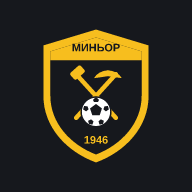
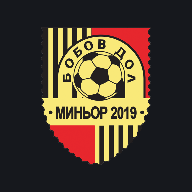
Замяна с официалното лого на „Миньор 2019" Бобов дол
- Добавено реалното лого (public/logo.png); Crest рендира него навсякъде.
- Прегенерирани PWA икони (192/512), OG изображение и favicon от логото.
- Премахнати временните SVG герб и favicon.

Claude-Session: https://claude.ai/code/session_01AkrxwS6EzNhDqQbDMQpnC3

Changed region(s): [[0.2188, 0.125, 0.7812, 0.875]]

diff --git a/minyor-bobov-dol/src/components/Crest.tsx b/minyor-bobov-dol/src/components/Crest.tsx
@@ -1,7 +1,9 @@
-// Гербът на ФК „Миньор“ Бобов дол — щит в клубните жълто-черни цветове с
-// миньорски символ (кръстосани чук и кирка), футболна топка и годината 1946.
-// Чист, мащабируем SVG (без растерни изображения), използван в хедъра, футъра
-// и като воден знак в заглавните ленти.
+/* eslint-disable @next/next/no-img-element */
+
+// Официалното лого на ФК „Миньор“ Бобов дол (емблема „Миньор 2019“).
+// Едно място за герба — използва се в хедъра, футъра, заглавните ленти и др.
+// Запазва пропорциите си; контролирайте размера чрез височина в className
+// (напр. „h-12 w-auto").
 
 export function Crest({
   className,
@@ -10,88 +12,18 @@ export function Crest({
 }: {
   className?: string;
   title?: string;
-  // Декоративен (воден знак) — скрит за екранни четци, без роля/заглавие.
+  // Декоративен (воден знак) — скрит за екранни четци.
   decorative?: boolean;
 }) {
   return (
-    <svg
-      viewBox="0 0 120 140"
+    <img
+      src="/logo.png"
+      width={620}
+      height={620}
       className={className}
-      role={decorative ? undefined : "img"}
+      alt={decorative ? "" : title}
       aria-hidden={decorative || undefined}
-      aria-label={decorative ? undefined : title}
-      xmlns="http://www.w3.org/2000/svg"
-    >
-      {!decorative && <title>{title}</title>}
-      {/* Щит — златен кант и черно поле */}
-      <path
-        d="M60 3 L113 19 V70 C113 101 90 126 60 137 C30 126 7 101 7 70 V19 Z"
-        fill="#f7be1e"
-      />
-      <path
-        d="M60 11 L106 25 V70 C106 97 86 119 60 129 C34 119 14 97 14 70 V25 Z"
-        fill="#16181d"
-      />
-      {/* Горна лента с името на клуба */}
-      <path d="M14 34 H106 V25 L60 11 L14 25 Z" fill="#f7be1e" />
-      <text
-        x="60"
-        y="25"
-        textAnchor="middle"
-        fontFamily="Georgia, 'Times New Roman', serif"
-        fontWeight="700"
-        fontSize="11"
-        fill="#16181d"
-      >
-        МИНЬОР
-      </text>
-
-      {/* Кръстосани чук и кирка (миньорски символ) в златно */}
-      <g
-        stroke="#f7be1e"
-        strokeWidth="4.5"
-        strokeLinecap="round"
-        fill="none"
-      >
-        {/* дръжки */}
-        <line x1="40" y1="48" x2="80" y2="92" />
-        <line x1="80" y1="48" x2="40" y2="92" />
-      </g>
-      {/* глава на чука */}
-      <rect x="34" y="42" width="14" height="9" rx="2" fill="#f7be1e" transform="rotate(-42 41 46)" />
-      {/* острие на кирката */}
-      <path
-        d="M72 44 q10 1 14 8 q-8 -1 -14 -2 q-6 1 -14 2 q4 -7 14 -8 Z"
-        fill="#f7be1e"
-        transform="rotate(0 79 48)"
-      />
-
-      {/* Футболна топка */}
-      <circle cx="60" cy="86" r="15" fill="#ffffff" stroke="#16181d" strokeWidth="1.5" />
-      <path
-        d="M60 78 l6 4.5 -2.3 7 h-7.4 l-2.3 -7 Z"
-        fill="#16181d"
-      />
-      <g fill="#16181d">
-        <path d="M60 71 l3 3 -1 2 h-4 l-1 -2 Z" />
-        <path d="M48 80 l3.5 0.5 1 3 -2.5 2 -3 -2 Z" />
-        <path d="M72 80 l-3.5 0.5 -1 3 2.5 2 3 -2 Z" />
-        <path d="M52 95 l3 -1.5 2.5 2 -1 3.2 -3.5 -0.2 Z" />
-        <path d="M68 95 l-3 -1.5 -2.5 2 1 3.2 3.5 -0.2 Z" />
-      </g>
-
-      {/* Година на основаване */}
-      <text
-        x="60"
-        y="118"
-        textAnchor="middle"
-        fontFamily="Georgia, 'Times New Roman', serif"
-        fontWeight="700"
-        fontSize="11"
-        fill="#f7be1e"
-      >
-        1946
-      </text>
-    </svg>
+      draggable={false}
+    />
   );
 }

diff --git a/minyor-bobov-dol/src/app/layout.tsx b/minyor-bobov-dol/src/app/layout.tsx
@@ -60,7 +60,7 @@ export const metadata: Metadata = {
   },
   icons: {
     icon: [
-      { url: "/favicon.svg", type: "image/svg+xml" },
+      { url: "/favicon.png", sizes: "64x64", type: "image/png" },
       { url: "/icon-192.png", sizes: "192x192", type: "image/png" },
       { url: "/icon-512.png", sizes: "512x512", type: "image/png" },
     ],
